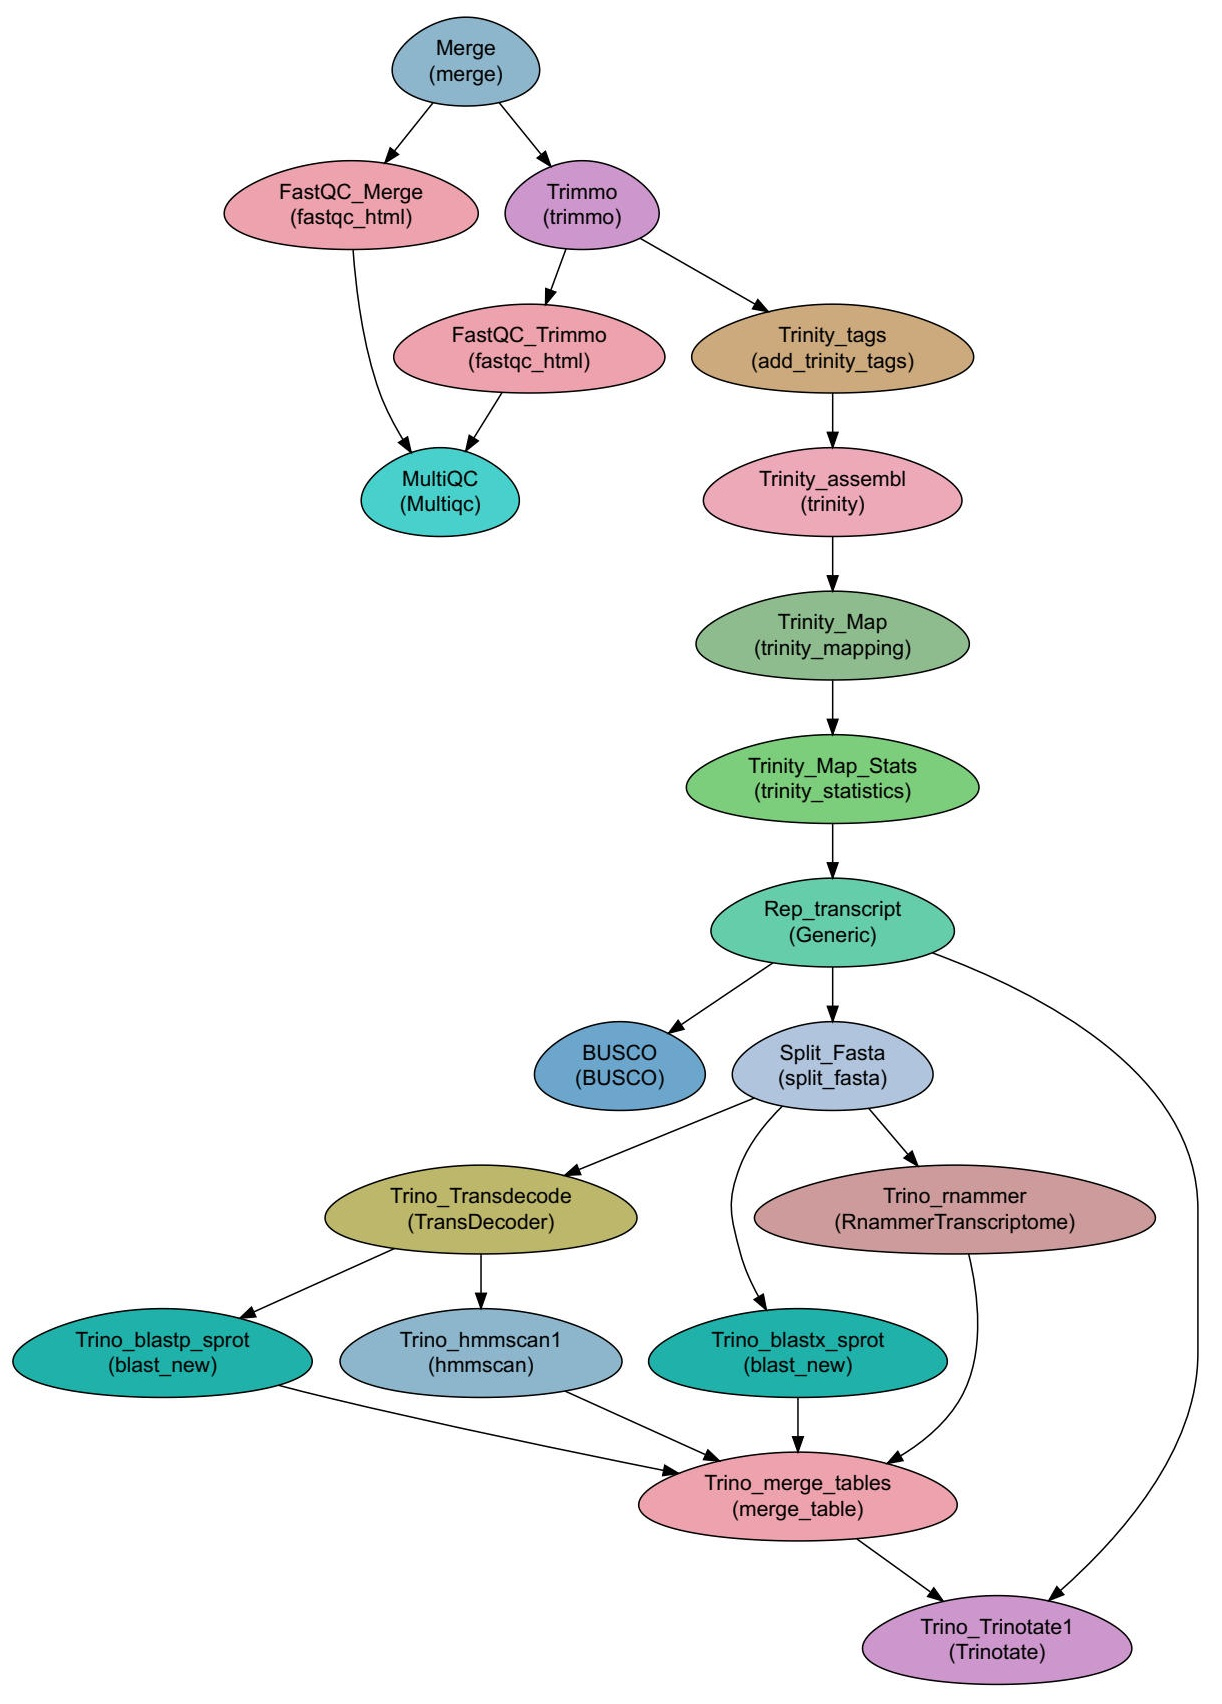
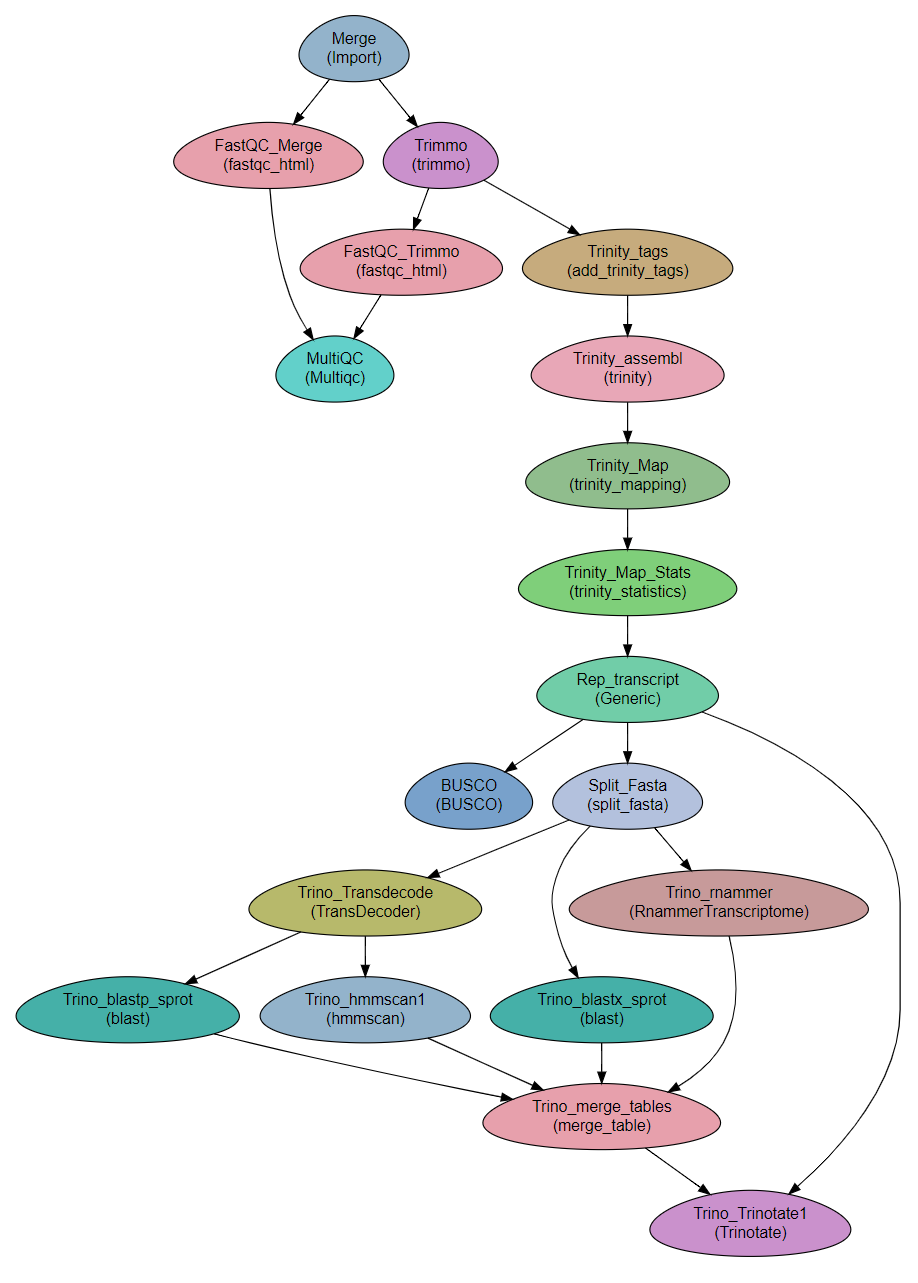
* Final commit before merge into master

diff --git a/neatseq_flow_modules/main_NSF_classes/preparing/Import.py b/neatseq_flow_modules/main_NSF_classes/preparing/Import.py
@@ -57,6 +57,7 @@ The ``Import`` module can be used in two modes:
         ".faa", "cat",""
         ".fna", "cat",""
         ".txt", "cat",""
+        ".tsv", "cat",""
         ".csv", "cat",""
         ".fastq", "cat",""
         ".fa", "cat",""
@@ -90,6 +91,11 @@ Requires
     "REFERENCE",    "reference"
     "VCF",          "vcf"
     "G.VCF",        "g.vcf"
+    "GTF",          "gtf"
+    "GFF",          "gff"
+    "GFF3",         "gff3"
+    "manifest",     "qiime2.manifest"
+    "barcodes",     "barcodes"
 
 * For the Advanced mode:
     * Lists of files in any file type, either in ``[<sample>]`` or in ``[project_data]``.

diff --git a/docs/source/Workflow_docs/RNA_seq_Trinity.rst b/docs/source/Workflow_docs/RNA_seq_Trinity.rst
@@ -189,6 +189,7 @@ For easy setup of the workflow, including a sample dataset, use the following in
 #. If you want to use Trinotate, create a directory for the required databases (this step takes some time to complete):
 
    .. code-block:: bash
+
         mkdir Trinotate_dbs;
         Build_Trinotate_Boilerplate_SQLite_db.pl  Trinotate_dbs/Trinotate
 
